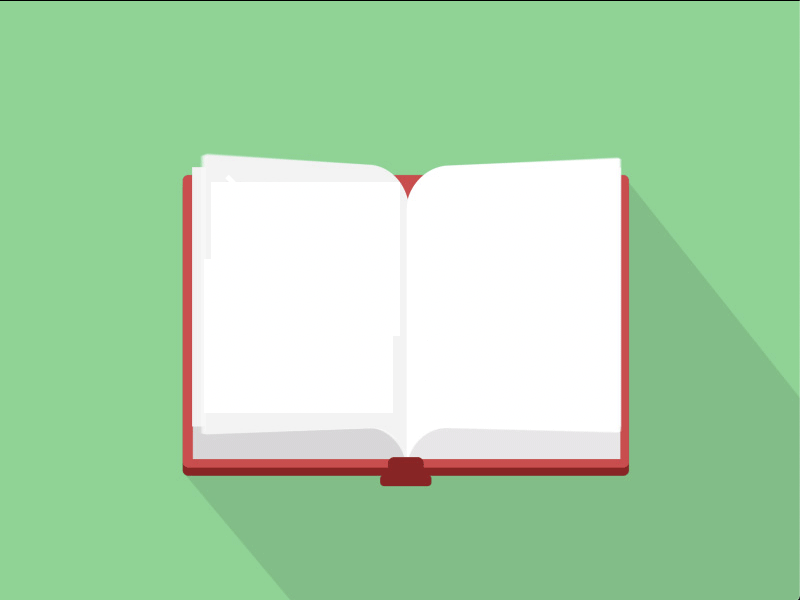
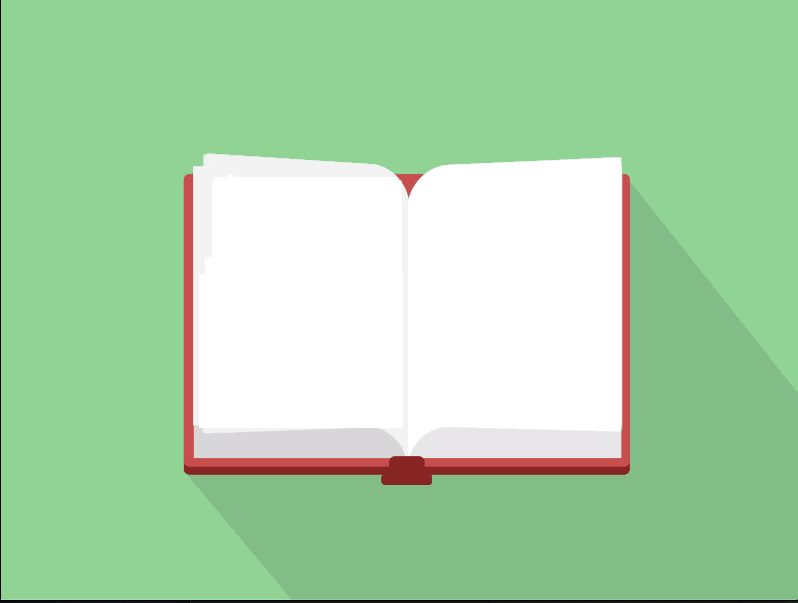
Created thread
Created a thread that searches for the  definition while the main thread is running a gif. Then once the thread is completed, the user can search for another word.

diff --git a/dictionary.py b/dictionary.py
@@ -1,27 +1,41 @@
 from tkinter import *
 from PIL import Image, ImageTk
 
+import dictionaryBackend
 import time
 import os
 from gifObject import ImageLabel
+import threading
+
+
+
+def loadDef():
+    lbl_def['text'] = dictionaryBackend.translate(input.get())
+    time.sleep(3)
+    lbl_word['text'] = input.get()
+    lbl_def_image.lift()
+    lbl_word.lift()
+    lbl_def.lift()
+    lbl_prompt.lift()
+    txt_input.delete(0,END)
+    txt_input.lift()
+
 
 
 def searchDef(event):
-        lbl_image.lower()
-        lbl_prompt.lower()
-        txt_input.lower()
-        gif.lift()
-        
-        gif.lower()
-        lbl_word.lift()
-        lbl_def.lift()
+        global gif
+        gif = ImageLabel(window)
+        gif.load('page_flip.gif')
+        load_def_thread = threading.Thread(target=loadDef)
+        load_def_thread.start()
+        gif.grid(row=0,column=0)
+
+
 
 def createGUI():
-
+    global window
     window =Tk()
     window.wm_title("Dictionary")
-
-
     window.bind('<Return>',searchDef)
 
     def_pic = ImageTk.PhotoImage(Image.open("page.png"))
@@ -30,13 +44,14 @@ def createGUI():
     lbl_def_image.image = def_pic
     lbl_def_image.grid(row=0,column=0)
 
-    global gif
-    gif = ImageLabel(window)
-    gif.load('page_flip.gif')
-    gif.grid(row=0,column=0)
+
 
     start_pic = ImageTk.PhotoImage(Image.open("start_pic.png"))
     global lbl_image
+    lbl_image = Label(image=start_pic)
+    lbl_image.image = start_pic
+    lbl_image.grid(row=0,column=0)
+    start_pic = ImageTk.PhotoImage(Image.open("start_pic.png"))
     lbl_image = Label(image=start_pic)
     lbl_image.image = start_pic
     lbl_image.grid(row=0,column=0)
@@ -49,18 +64,22 @@ def createGUI():
     global txt_input
     txt_input = Entry(textvariable=input)
     txt_input.place(x=350,y=50)
+    input = StringVar()
+    lbl_prompt = Label(text = "Enter a word:",bg = "#90D395")
+    lbl_prompt.place(x=250,y=53)
+    txt_input = Entry(textvariable=input)
+    txt_input.place(x=350,y=50)
 
     #output
     global lbl_word
-    lbl_word = Label(text = "WORD another word more words lots of words blah blah", font="helvetica 20", wraplength=175, justify="left")
+    lbl_word = Label(font="helvetica 20", wraplength=175, justify="left")
     lbl_word.place(x=220,y=200)
     lbl_word.lower()
 
     global lbl_def
-    lbl_def = Label(text="This is the definition blah blah blah asdfasdfasdfasdfasdfa", font="helvetica 15", wraplength=175, justify="left")
+    lbl_def = Label(font="helvetica 10", wraplength=175, justify="left")
     lbl_def.place(x=420,y=200)
     lbl_def.lower()
-
 
     window.mainloop()
 createGUI()

diff --git a/dictionaryBackend.py b/dictionaryBackend.py
@@ -18,9 +18,11 @@ def translate(w):
 
     #print results
     if results:
+        number = 0
         definition = ""
         for result in results:
-            definition += result[0] + "\n"
+            number = number + 1
+            definition += str(number) + ". " + result[0] + "\n"
         return definition
 
     #Gets words to look for similarities might have error
